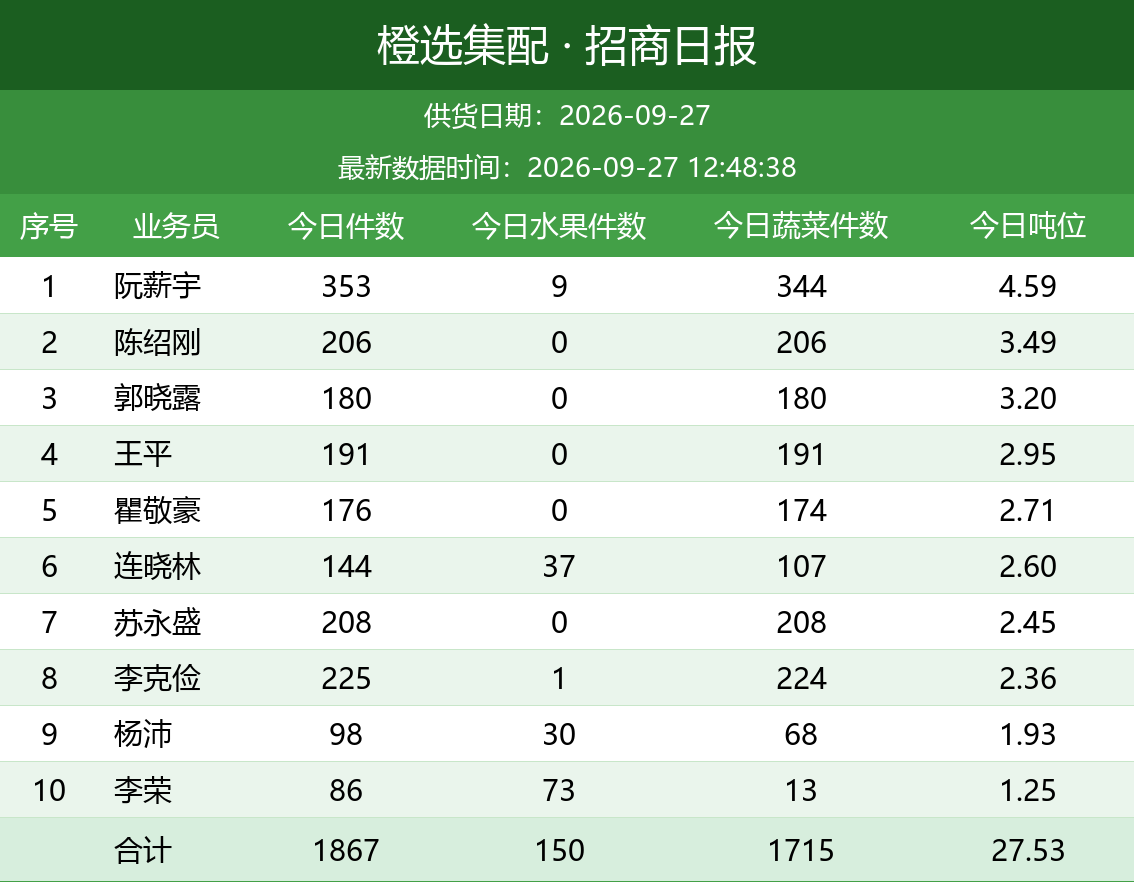
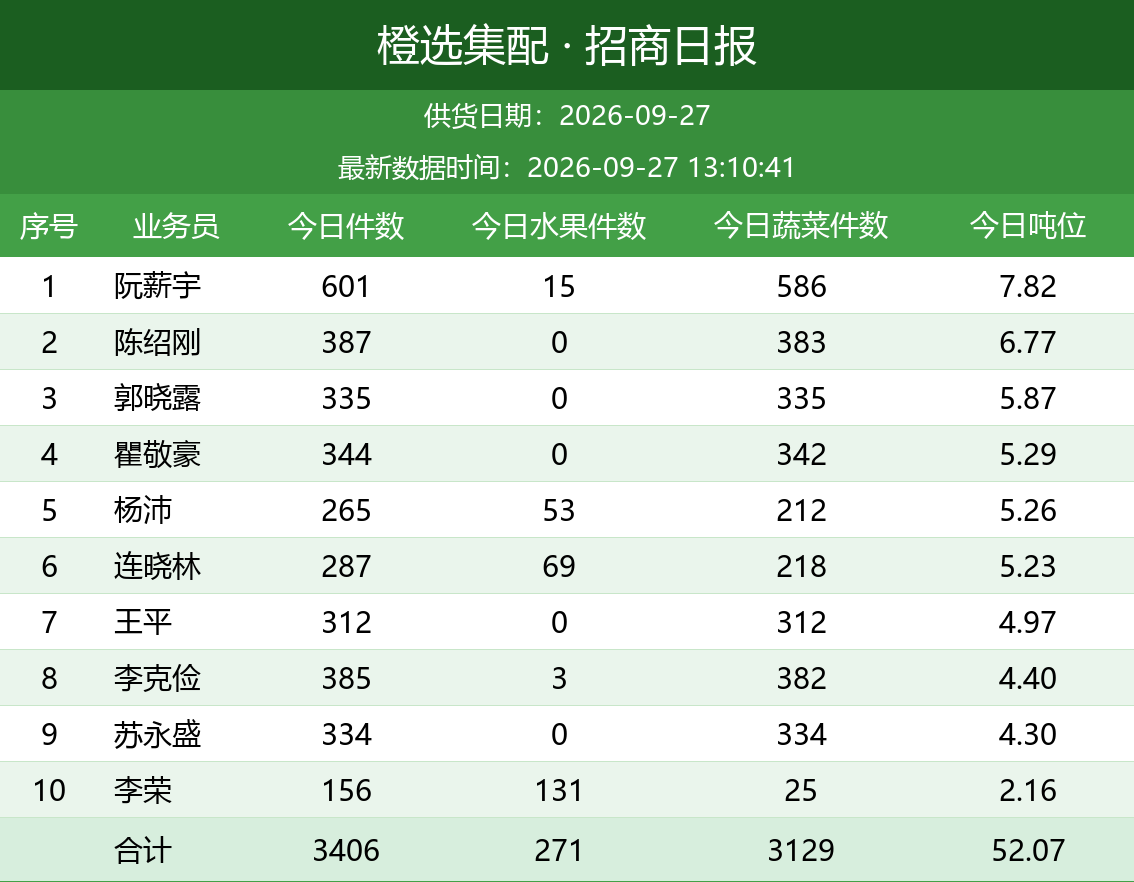
自动更新日报图片

diff --git a/daily_report/index.html b/daily_report/index.html
@@ -11,7 +11,7 @@ img { max-width: 100%; border: 1px solid #e5e5e5; margin-bottom: 24px; display: 
 </style>
 </head>
 <body>
-<h1>橙选集配日报图片（20260927_124956）</h1>
+<h1>橙选集配日报图片（20260927_131249）</h1>
 <img src="bd_latest.png" alt="BD 日报">
 <img src="wh_latest.png" alt="城市仓日报">
 <img src="zs_latest.png" alt="招商日报">
